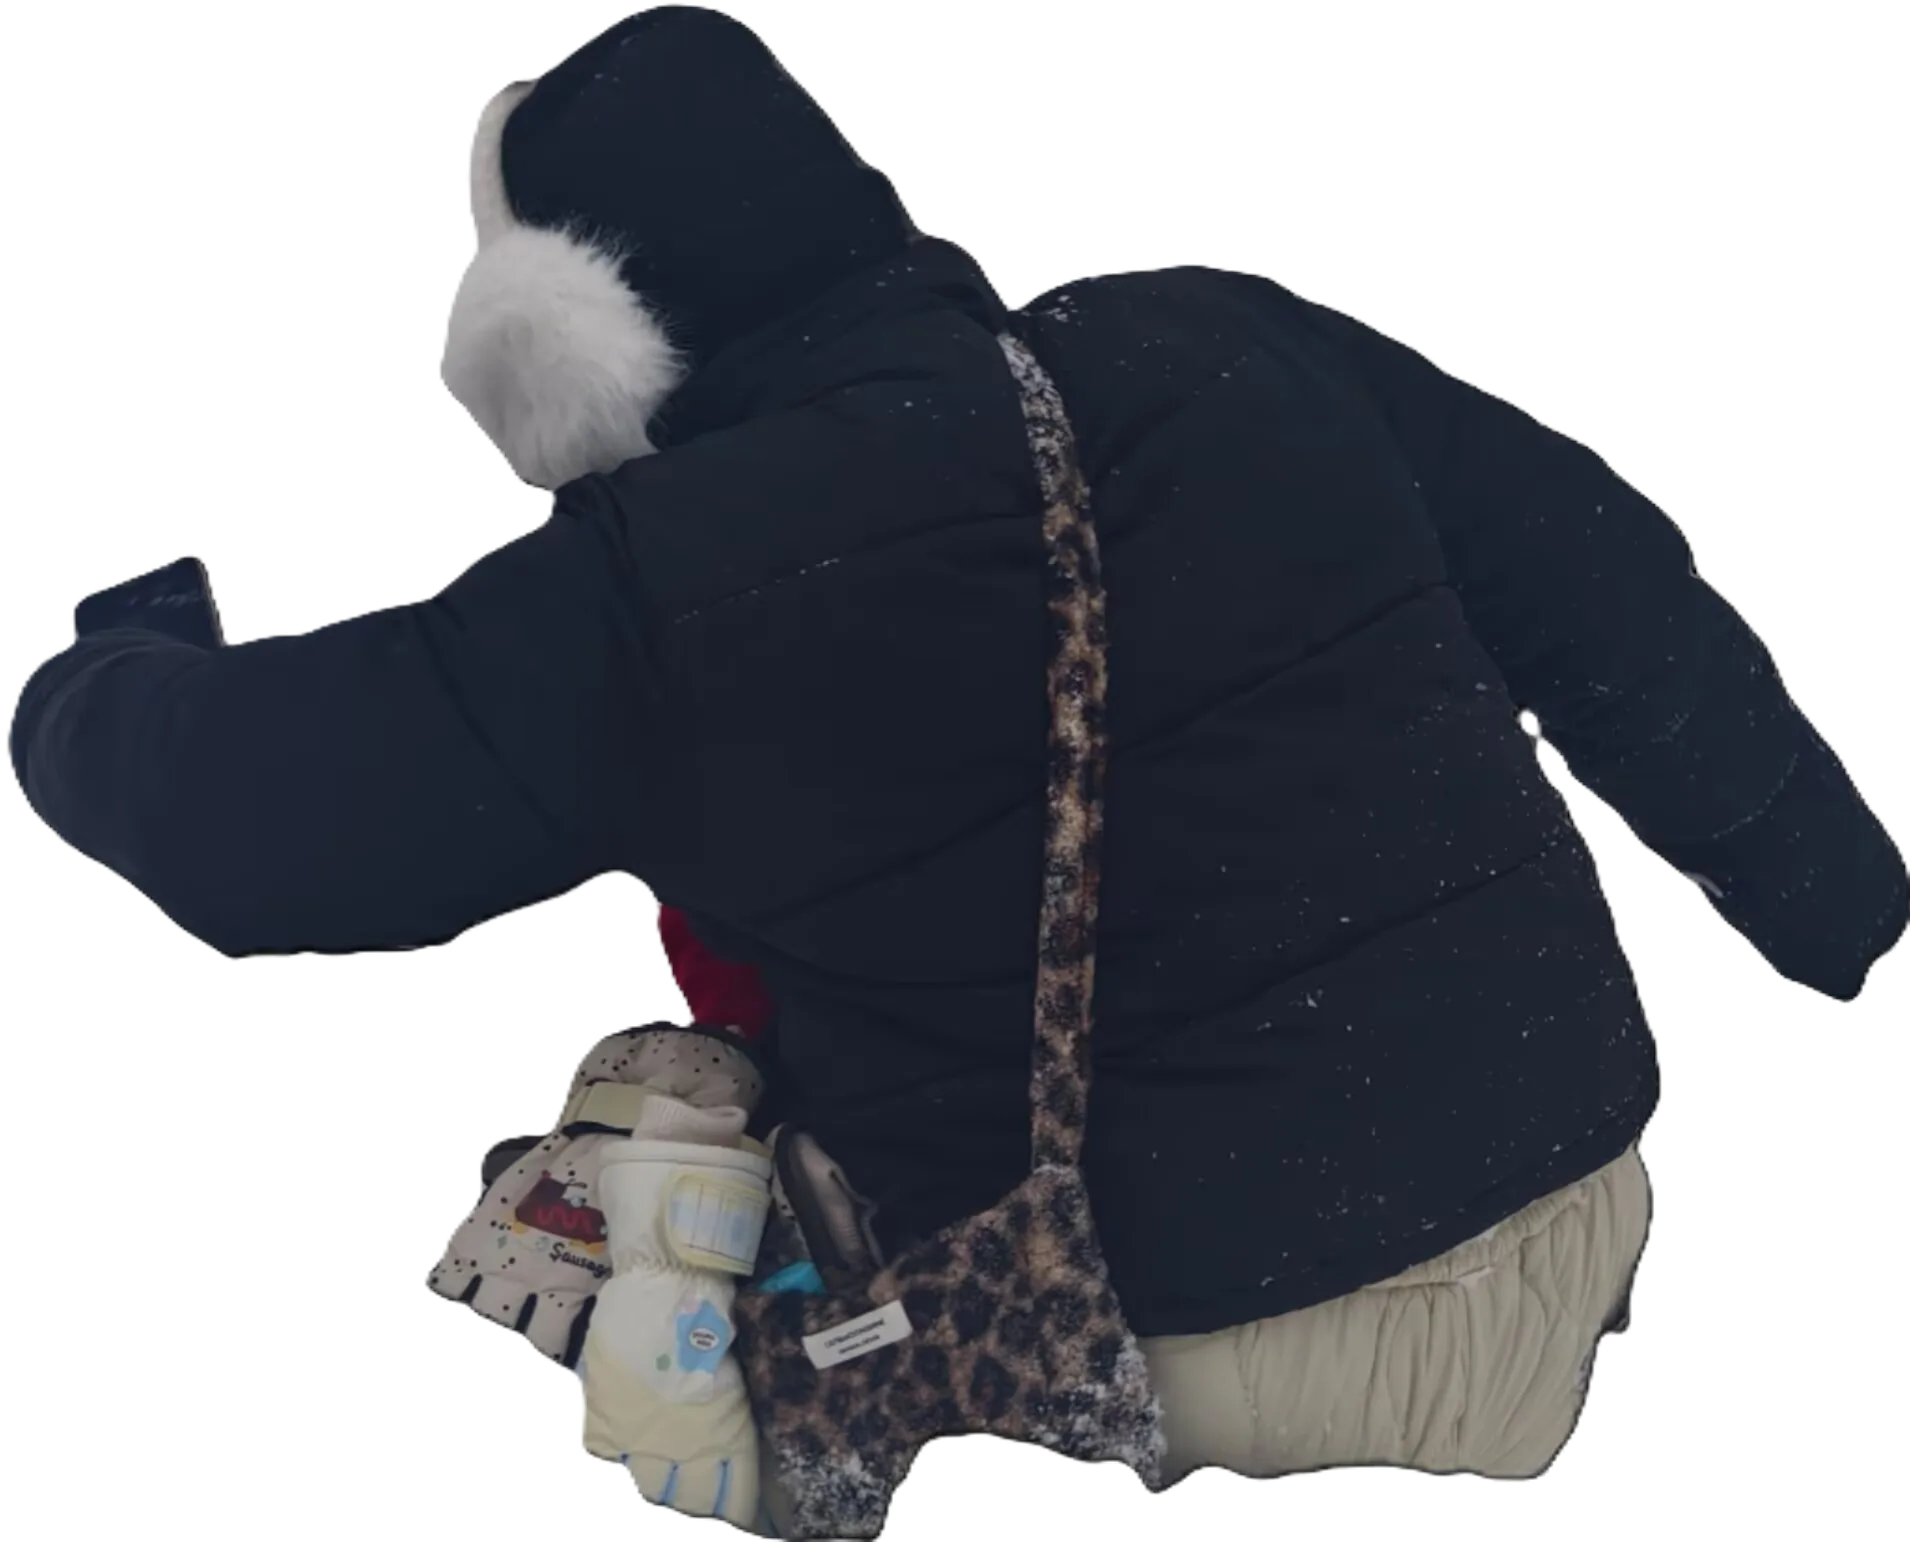
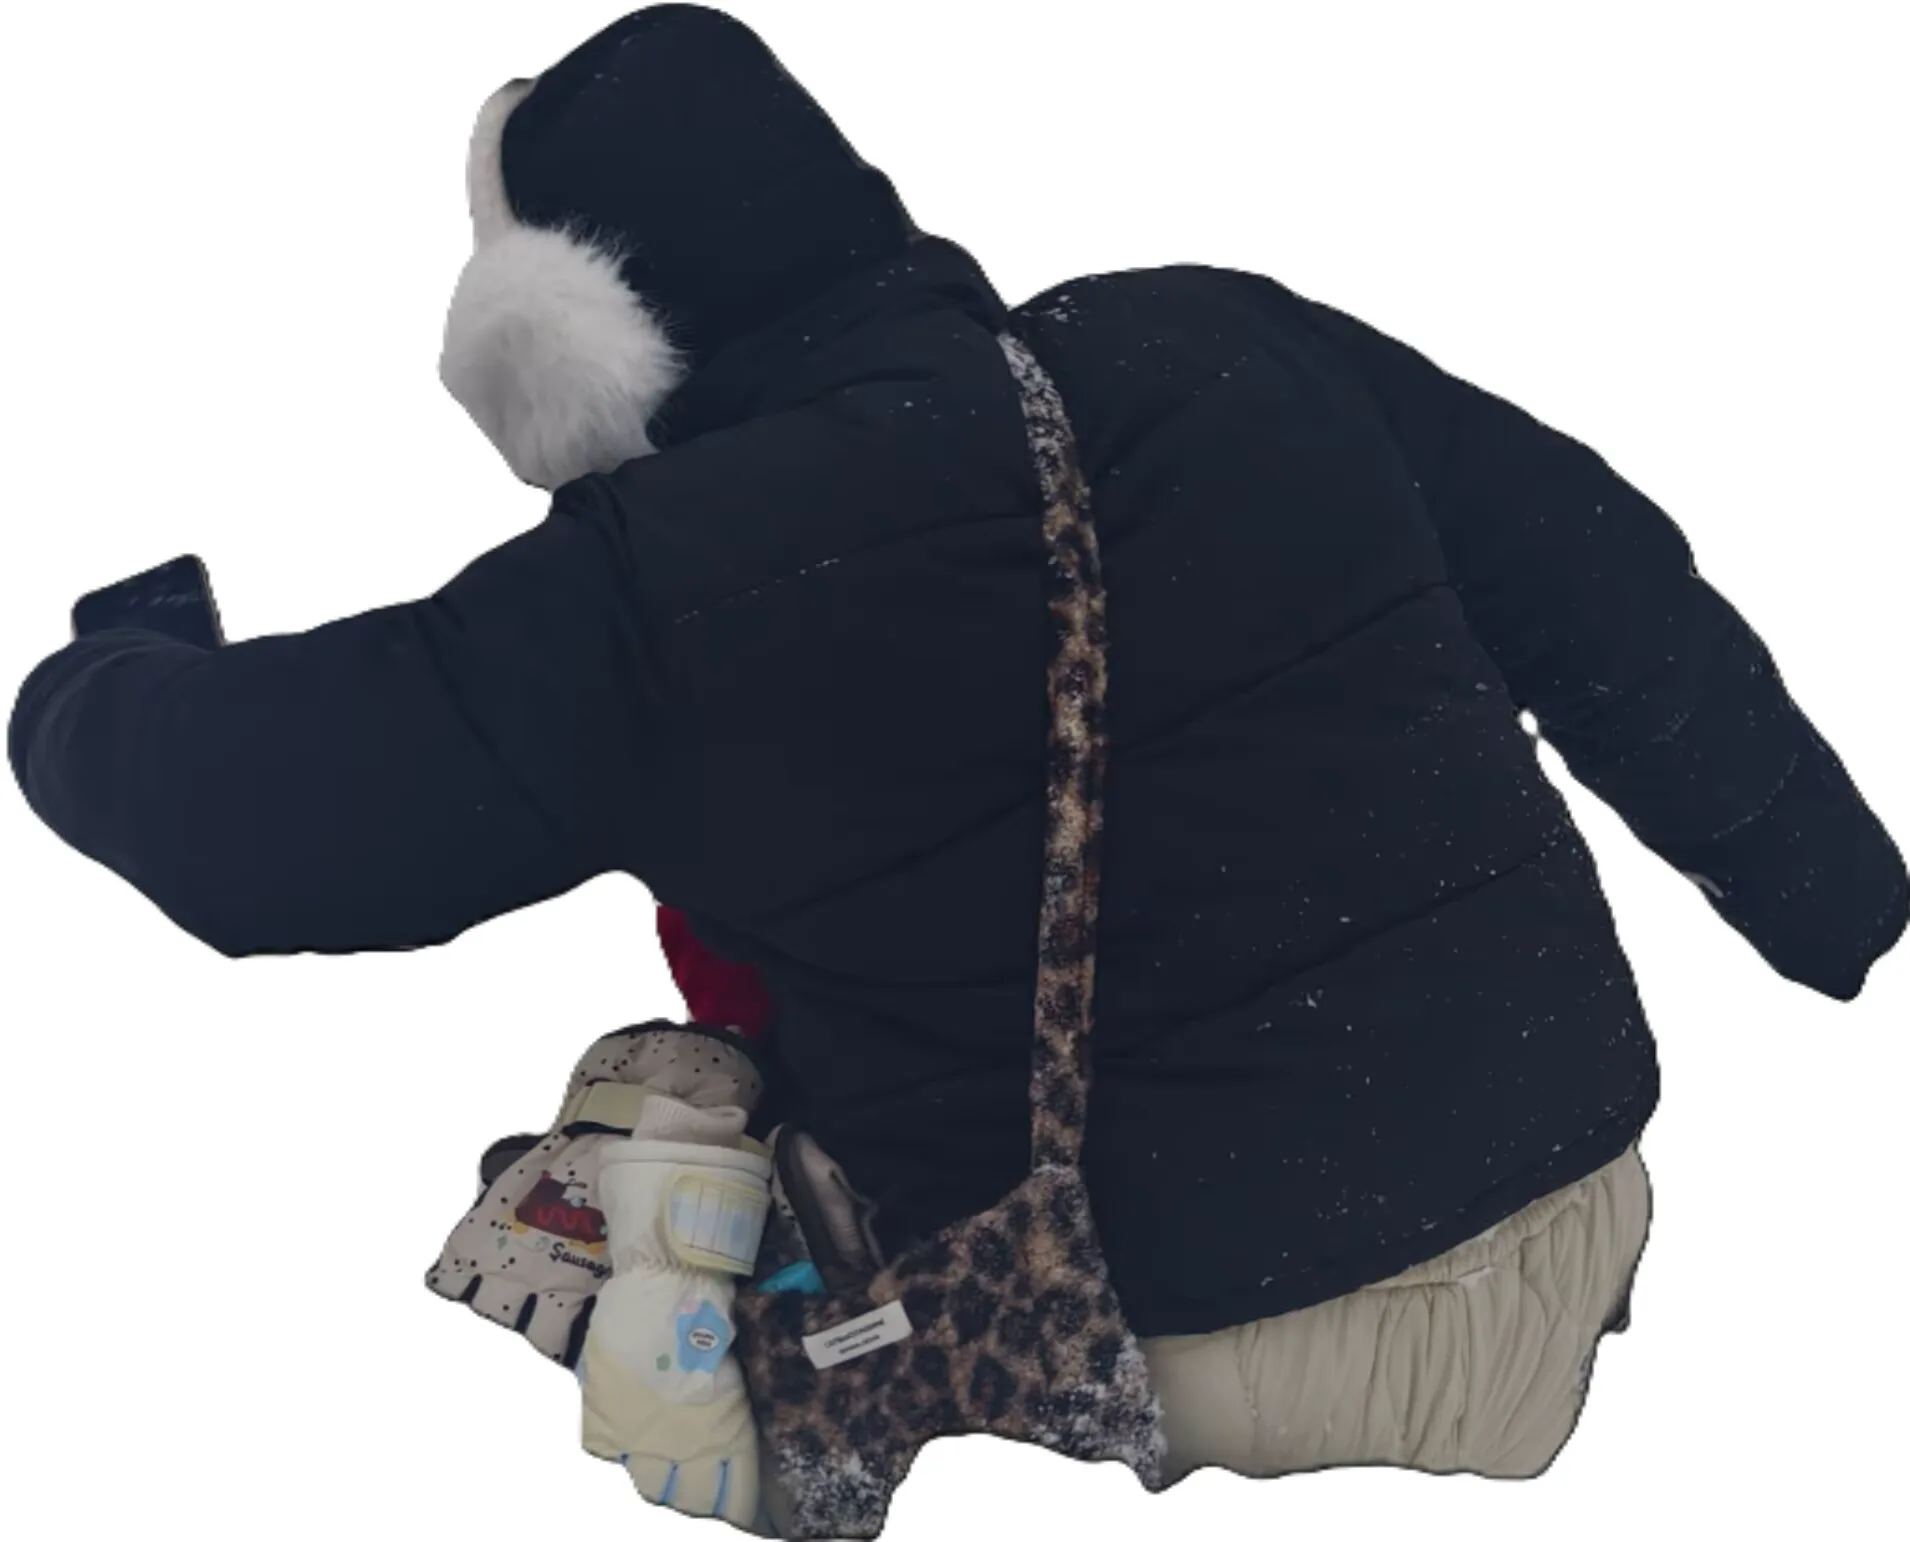
全站图片统一转为 WebP

diff --git a/src/data/portfolioData.ts b/src/data/portfolioData.ts
@@ -60,19 +60,19 @@ export const PROJECTS: Project[] = [
     category: 'AI Product & Workflow',
     year: '2025',
     mediaType: 'video',
-    mediaUrl: '/assets/aistudio/AI________2__513a0d82.jpg',
+    mediaUrl: '/assets/aistudio/AI________2__513a0d82.webp',
     previewVideoUrl: '/assets/aistudio/AI_________8aa1e4ab.mp4',
     secondaryVideoUrl: '/assets/aistudio/AI________399aacf8.mp4',
     secondaryVideoTitle: '礼物生成与上架工作流可视化',
-    scatteredImage: '/assets/aistudio/hero_ai_gift.png',
+    scatteredImage: '/assets/aistudio/hero_ai_gift.webp',
     scatteredTitle: 'AI 生成礼物',
     rotation: 6,
     zIndex: 14,
     tags: ['AIGC', '文生图', '工作流封装', 'API 自动化', '社交游戏化'],
     galleryImages: [
-      '/assets/aistudio/AI________2__513a0d82.jpg',
-      '/assets/aistudio/AI________1__89dd7af6.jpg',
-      '/assets/aistudio/AI________3__ebadc34f.jpg',
+      '/assets/aistudio/AI________2__513a0d82.webp',
+      '/assets/aistudio/AI________1__89dd7af6.webp',
+      '/assets/aistudio/AI________3__ebadc34f.webp',
       '/assets/aistudio/AI________1__70bd8ff5.webp',
     ],
     details: {
@@ -96,7 +96,7 @@ export const PROJECTS: Project[] = [
     mediaType: 'video',
     mediaUrl: '/assets/aistudio/AI________1__70bd8ff5.webp',
     previewVideoUrl: '/assets/aistudio/_____________73aa7e27.mp4',
-    scatteredImage: '/assets/aistudio/hero_heytea_card.png',
+    scatteredImage: '/assets/aistudio/hero_heytea_card.webp',
     scatteredTitle: '喜茶折叠小卡',
     rotation: -4,
     zIndex: 15,
@@ -119,9 +119,9 @@ export const PROJECTS: Project[] = [
     category: 'Digital Stationery',
     year: '2025',
     mediaType: 'video',
-    mediaUrl: '/assets/aistudio/___________4__5337d4e2.jpg',
+    mediaUrl: '/assets/aistudio/___________4__5337d4e2.webp',
     previewVideoUrl: '/assets/aistudio/________cc0b138b.mp4',
-    scatteredImage: '/assets/aistudio/___________4__5337d4e2.jpg',
+    scatteredImage: '/assets/aistudio/___________4__5337d4e2.webp',
     scatteredTitle: 'TZ-80 热敏小票',
     rotation: 5,
     zIndex: 12,
@@ -144,17 +144,17 @@ export const PROJECTS: Project[] = [
     category: 'Cultural Creative Tool',
     year: '2025',
     mediaType: 'video',
-    mediaUrl: '/assets/aistudio/___________1__bea08a7a.jpg',
+    mediaUrl: '/assets/aistudio/___________1__bea08a7a.webp',
     previewVideoUrl: '/assets/aistudio/_________86f32b44.mp4',
-    scatteredImage: '/assets/aistudio/___________1__bea08a7a.jpg',
+    scatteredImage: '/assets/aistudio/___________1__bea08a7a.webp',
     scatteredTitle: '古画纹样美化',
     rotation: -8,
     zIndex: 13,
     tags: ['传统纹样', 'Canvas 滤镜', '边框装饰', '图像蒙版'],
     galleryImages: [
-      '/assets/aistudio/___________1__bea08a7a.jpg',
-      '/assets/aistudio/___________2__2512c533.jpg',
-      '/assets/aistudio/___________4__5337d4e2.jpg',
+      '/assets/aistudio/___________1__bea08a7a.webp',
+      '/assets/aistudio/___________2__2512c533.webp',
+      '/assets/aistudio/___________4__5337d4e2.webp',
       '/assets/aistudio/___________3__5a062a62.webp',
     ],
     details: {

diff --git a/src/data/chapters.ts b/src/data/chapters.ts
@@ -213,15 +213,15 @@ export const CHAPTERS: Chapter[] = [
         title: '数据与使用跟踪',
         lead: '建立礼物上架的业务流程',
         gallery: [
-          '/assets/aistudio/gift-gallery/g1.jpg',
+          '/assets/aistudio/gift-gallery/g1.webp',
           '/assets/aistudio/gift-gallery/g2.webp',
-          '/assets/aistudio/gift-gallery/g3.jpg',
-          '/assets/aistudio/gift-gallery/g4.jpg',
-          '/assets/aistudio/gift-gallery/g5.jpg',
-          '/assets/aistudio/gift-gallery/g6.jpg',
-          '/assets/aistudio/gift-gallery/g7.jpg',
-          '/assets/aistudio/gift-gallery/g8.jpg',
-          '/assets/aistudio/gift-gallery/g9.jpg',
+          '/assets/aistudio/gift-gallery/g3.webp',
+          '/assets/aistudio/gift-gallery/g4.webp',
+          '/assets/aistudio/gift-gallery/g5.webp',
+          '/assets/aistudio/gift-gallery/g6.webp',
+          '/assets/aistudio/gift-gallery/g7.webp',
+          '/assets/aistudio/gift-gallery/g8.webp',
+          '/assets/aistudio/gift-gallery/g9.webp',
         ],
         points: [
           {
@@ -328,10 +328,10 @@ export const CHAPTERS: Chapter[] = [
         projectId: 'chinese-heritage-pattern',
         video: '/assets/aistudio/tool-collection/04_x264.mp4',
         images: [
-          '/assets/aistudio/tool-collection/heritage-1.jpg',
-          '/assets/aistudio/tool-collection/heritage-2.jpg',
+          '/assets/aistudio/tool-collection/heritage-1.webp',
+          '/assets/aistudio/tool-collection/heritage-2.webp',
           '/assets/aistudio/tool-collection/heritage-3.webp',
-          '/assets/aistudio/tool-collection/heritage-4.jpg',
+          '/assets/aistudio/tool-collection/heritage-4.webp',
         ],
       },
       {

diff --git a/src/components/SplitScreenWorks.tsx b/src/components/SplitScreenWorks.tsx
@@ -1,4 +1,4 @@
-import React, { useState } from 'react';
+import React, { useState } from 'react';
 import { motion } from 'motion/react';
 import { Project } from '../types';
 import { VideoPlayerPreview } from './VideoPlayerPreview';
@@ -44,7 +44,7 @@ export const SplitScreenWorks: React.FC<Props> = ({
 
   return (
     <div id="works-list" className="w-full">
-      {/* 3-Column Editorial Layout without Bounding Boxes (Unboxed, Pure Whitespace Separation matching image_e99bcf24.png) */}
+      {/* 3-Column Editorial Layout without Bounding Boxes (Unboxed, Pure Whitespace Separation matching image_e99bcf24.webp) */}
       {projects.map((project, idx) => {
         const isHighlighted = activeHighlightedId === project.id;
         const isSaved = bookmarkedIds.has(project.id);

diff --git a/src/components/StickyBottomFolderTabs.tsx b/src/components/StickyBottomFolderTabs.tsx
@@ -1,4 +1,4 @@
-import React from 'react';
+import React from 'react';
 
 export interface FolderTab {
   id: string;
@@ -52,7 +52,7 @@ export const StickyBottomFolderTabs: React.FC<Props> = ({
                     : 'h-[32px] sm:h-[35px] z-10 hover:h-[37px] sm:hover:h-[40px] hover:z-20'
                 }`}
               >
-                {/* Authentic Die-Cut Folder Tab SVG Silhouette (Exact match to image_78e6d42f.png) */}
+                {/* Authentic Die-Cut Folder Tab SVG Silhouette (Exact match to image_78e6d42f.webp) */}
                 <svg
                   className="absolute inset-0 w-full h-full -z-10 pointer-events-none filter drop-shadow-[0_-2px_6px_rgba(40,30,20,0.04)]"
                   viewBox="0 0 100 36"
